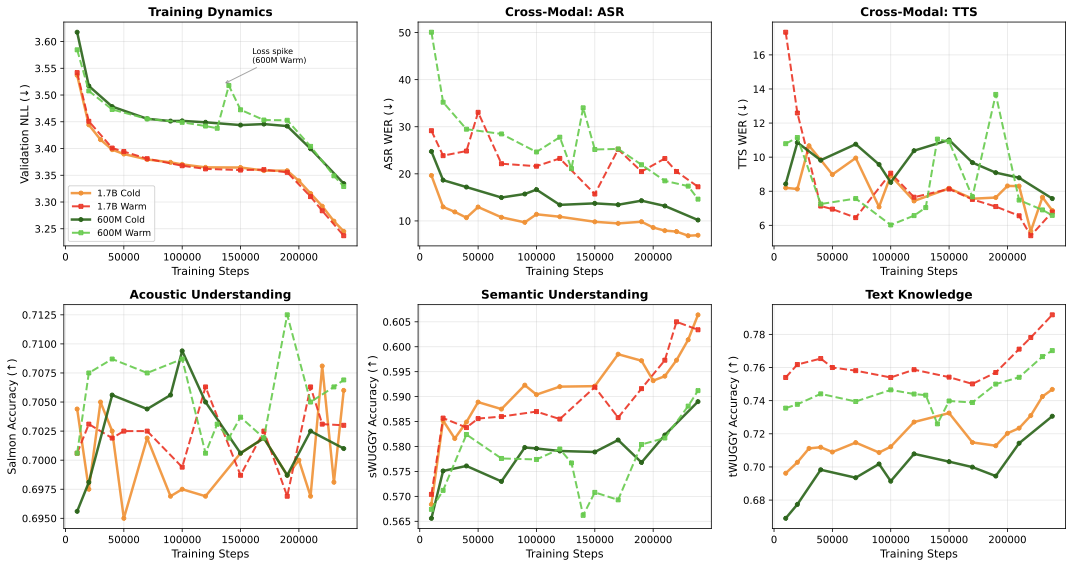
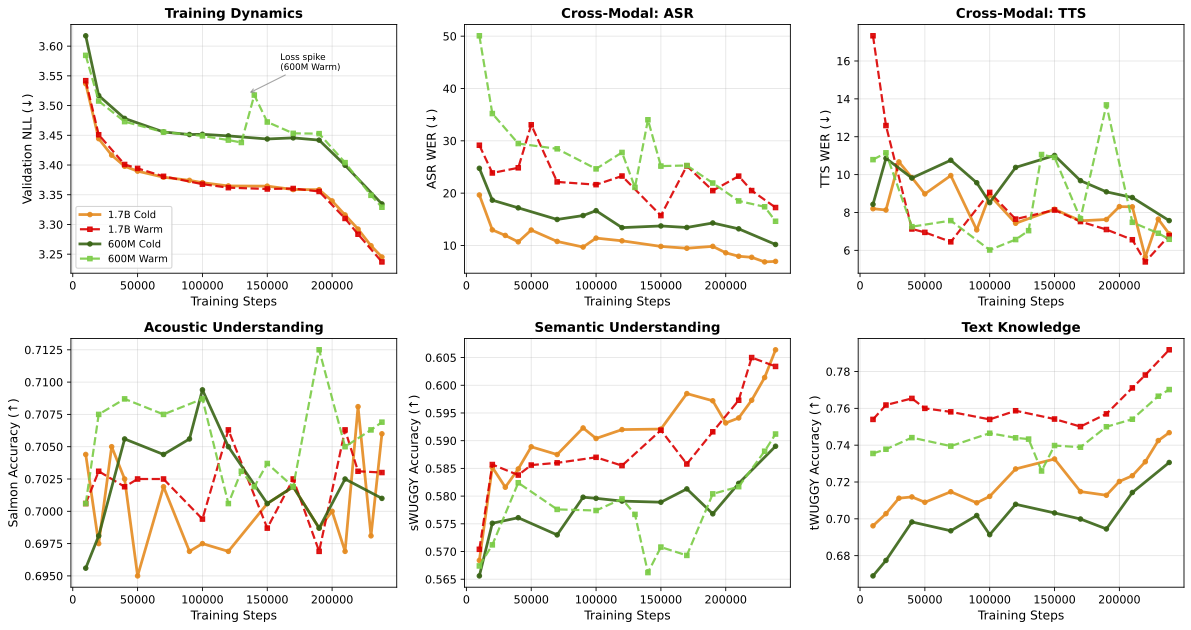
improve exp log (parametric fit) and main page link

diff --git a/experiment_log.html b/experiment_log.html
@@ -111,6 +111,7 @@
                 <li><a href="#isoflop-setup">Setup</a></li>
                 <li><a href="#isoflop-results">Results</a></li>
                 <li><a href="#isoflop-findings">Findings</a></li>
+                <li><a href="#isoflop-parametric">Parametric Loss Prediction</a></li>
               </ul>
             </li>
             <li>
@@ -441,6 +442,8 @@ def str_to_audio(audio_str: str, mimi_model: MimiModel, device: str) -> np.ndarr
             </li>
           </ul>
 
+          <strong>Experiment Script:</strong> <a href="https://github.com/potsawee/marin/blob/audio-release-pr/experiments/audio/exp1699_marin_yodas2.py">exp1699_marin_yodas2.py</a>
+
           <p>
             <strong>Link:</strong> 
             <a href="https://wandb.ai/marin-community/marin/runs/exp1699_marin_yodas2-b5edae/">📈 WandB Log</a> 
@@ -582,6 +585,8 @@ def str_to_audio(audio_str: str, mimi_model: MimiModel, device: str) -> np.ndarr
               <br><small><a href="https://wandb.ai/potsawee/marin/groups/DataMix-150M/workspace">📈 WandB Log</a></small>
             </li>
           </ul>
+
+          <strong>Experiment Script:</strong> <a href="https://github.com/potsawee/marin/blob/audio-release-pr/experiments/audio/exp1699_marin_yodas2_anneal.py">exp1699_marin_yodas2_anneal.py</a>
 
           <h3 id="annealing-results">Results</h3>
           <div class="table-container">
@@ -733,6 +738,7 @@ def str_to_audio(audio_str: str, mimi_model: MimiModel, device: str) -> np.ndarr
             <li><strong>Speech data:</strong> Yodas (English)</li>
             <li><strong>Ratios tested:</strong> 0%, 2.5%, 5%, 7.5%, 10%, 20%, 30%, 40%, 50%, 60%, 70%, 80%, 90%</li>
           </ul>
+          <strong>Experiment Script:</strong> <a href="https://github.com/potsawee/marin/blob/audio-release-pr/experiments/audio/exp1699_nemotron_sweep.py">exp1699_nemotron_sweep.py</a>
           <p>
             <strong>Link:</strong> <a href="https://wandb.ai/potsawee/marin/groups/Nemotron-Sweep-150M/workspace">📈 WandB Log</a>
           </p>
@@ -793,6 +799,7 @@ def str_to_audio(audio_str: str, mimi_model: MimiModel, device: str) -> np.ndarr
             <li><strong>S+A (Semantic+Acoustic):</strong> Up to 8 Mimi codebooks — audio-only sequences</li>
             <li><strong>S+A+T (Semantic+Acoustic+Text):</strong> 8 codebooks with text transcripts interleaved at the utterance level</li>
           </ul>
+          <strong>Experiment Script:</strong> <a href="https://github.com/potsawee/marin/blob/audio-release-pr/experiments/audio/exp1699_ablate_tokens.py">exp1699_ablate_tokens.py</a>
 
           <h3 id="token-comp-results">Results</h3>
           <div class="table-container">
@@ -883,10 +890,10 @@ def str_to_audio(audio_str: str, mimi_model: MimiModel, device: str) -> np.ndarr
           <h3 id="isoflop-goal">Goal & Motivation</h3>
           <p>
             Scaling laws for text LLMs are well-studied (Kaplan et al., Chinchilla, Llama3, DeepSeek), 
-            yet no such analysis exists for discrete audio models. 
-            Since audio tokens are far more granular (~100 tokens/sec with 8-codebook Mimi) 
-            compared to text (~3–4 tokens/sec), the optimal allocation between model size and training data may differ significantly.
-            We conduct the first scaling law study for discrete audio models to answer:
+            yet no such analysis exists for discrete audio models (e.g., codec-based TTS models or any transformer models trained on audio tokens). 
+            Since audio tokens are typically more granular (~100 tokens/sec with 8-codebook Mimi) 
+            compared to text (~3–4 tokens/sec) at a normal speaking rate, the optimal allocation between model size and training data may differ significantly.
+            This work conducts the first scaling law study for discrete audio models to answer:
           </p>
           <ul>
             <li>How should we allocate compute between model size (N) and training data (D)?</li>
@@ -900,15 +907,15 @@ def str_to_audio(audio_str: str, mimi_model: MimiModel, device: str) -> np.ndarr
             spanning two orders of magnitude from 3×10<sup>18</sup> to 3×10<sup>20</sup> FLOPs.
             For each compute budget C, we train models of varying sizes (77M to 4.2B parameters), 
             adjusting the number of training tokens D to satisfy C ≈ 6ND.
-            At each budget, we identify the configuration achieving the lowest validation loss, yielding optimal pairs (N*, D*).
+            At each budget, we identify the configuration achieving the lowest validation loss, yielding optimal pairs (N*, D*). We follow the setup of the IsoFLOP study in <a href="https://arxiv.org/abs/2510.24626">Relative Scaling Laws for LLMs</a> by adapting this <a href="https://github.com/marin-community/marin/blob/main/experiments/isoflop_sweep.py">script</a>.
           </p>
           <ul>
             <li><strong>Models trained:</strong> 64 configurations total</li>
             <li><strong>Compute range:</strong> 3×10<sup>18</sup> to 3×10<sup>20</sup> FLOPs</li>
             <li><strong>Model sizes:</strong> 77M to 4.2B parameters</li>
             <li><strong>Data:</strong> 5% Nemotron + 95% Yodas/Emilia (as determined previously)</li>
-            <li><strong>Config:</strong> <a href="https://github.com/marin-community/marin/blob/main/experiments/isoflop_sweep.py">isoflop_sweep.py</a></li>
           </ul>
+          <strong>Experiment Script:</strong> <a href="https://github.com/potsawee/marin/blob/audio-release-pr/experiments/audio/isoflop_audio_sweep.py">isoflop_sweep.py</a>
           <p>
             <strong>Link:</strong> <a href="https://wandb.ai/potsawee/marin/groups/IsoFlop/workspace">📈 WandB Log</a>
           </p>
@@ -969,17 +976,84 @@ def str_to_audio(audio_str: str, mimi_model: MimiModel, device: str) -> np.ndarr
             </li>
           </ol>
           
-          <details id="isoflop-parametric" style="margin-top: 1em;">
-            <summary style="cursor: pointer; font-weight: bold;">Show alternative parametric fit approach</summary>
-            <p style="margin-top: 0.5em;">
-              An alternative approach fits a parametric equation L = E + A/N<sup>α</sup> + B/D<sup>β</sup> on all data points 
-              and derives exponents as N* ∝ C<sup>β/(α+β)</sup> and D* ∝ C<sup>α/(α+β)</sup>. This yields similar findings:
-            </p>
-            <figure style="text-align: center; margin: 1em 0;">
-              <img src="./static/images/isoflop_parametric_fit_comparison.png" alt="Parametric fit comparison" style="max-width: 80%;">
-              <figcaption style="font-size: 0.85em; color: #666; margin-top: 0.5em;">Comparison of IsoFLOP approach vs parametric fit approach.</figcaption>
-            </figure>
-          </details>
+          <h3 id="isoflop-parametric">Parametric Loss Prediction</h3>
+          <p>
+            Beyond identifying compute-optimal allocations, we also want to <em>predict</em> the final validation loss 
+            for models trained at larger compute budgets — including over-trained configurations where the model is 
+            trained on more data than its compute-optimal amount, for example, our SODA-LongRun experiments in a subsequent section.
+            To preict final validation loss, we fit the parametric equation from 
+            <a href="https://arxiv.org/abs/2203.15556">Chinchilla</a>:
+          </p>
+          <div style="background-color: #f5f5f5; padding: 1em; font-size: 1.1em; border-radius: 4px; text-align: center; font-family: 'Noto Sans', sans-serif;">
+            L(N, D) = E + A / N<sup>α</sup> + B / D<sup>β</sup>
+          </div>
+          <p style="margin-top: 0.75em;">
+            where <em>N</em> is the model size (parameters), <em>D</em> is the number of training tokens, 
+            and <em>E</em> represents the irreducible loss.
+            We fit this equation on all <strong>64 data points</strong> from our IsoFLOP sweep 
+            (not just the compute-optimal points), obtaining:
+          </p>
+          <div style="background-color: #f5f5f5; padding: 1em; font-size: 1.1em; border-radius: 4px; text-align: center; font-family: 'Noto Sans', sans-serif;">
+            L = 3.169 + 215886 / N<sup>0.684</sup> + 4750 / D<sup>0.439</sup>
+            &nbsp;&nbsp;&nbsp; (R<sup>2</sup> = 0.983)
+          </div>
+
+          <p style="margin-top: 1em;">
+            <strong>Note on derived scaling exponents.</strong>
+            This parametric fit approach also provides an alternative derivation of scaling exponents.
+            Using C = 6ND, the compute-optimal model size and data can be derived as 
+            N* ∝ C<sup>β/(α+β)</sup> and D* ∝ C<sup>α/(α+β)</sup>.
+            Using our fitted α = 0.684 and β = 0.439, we obtain:
+          </p>
+          <div style="background-color: #f5f5f5; padding: 1em; font-size: 1.05em; border-radius: 4px; font-family: 'Noto Sans', sans-serif;">
+            <table style="margin: 0 auto; border-collapse: collapse; font-size: 1em;">
+              <tr>
+                <td style="padding: 0.3em 1em;"><strong>N*</strong> ∝ C<sup>0.391</sup></td>
+                <td style="padding: 0.3em 1em; color: #888;">(vs. C<sup>0.367</sup> from IsoFLOP fit)</td>
+              </tr>
+              <tr>
+                <td style="padding: 0.3em 1em;"><strong>D*</strong> ∝ C<sup>0.609</sup></td>
+                <td style="padding: 0.3em 1em; color: #888;">(vs. C<sup>0.579</sup> from IsoFLOP fit)</td>
+              </tr>
+            </table>
+          </div>
+          <p style="margin-top: 0.75em;">
+            These derived exponents are reasonably close to the empirically fitted values from the IsoFLOP analysis, 
+            with both approaches showing D*/N* ≈ 1.57.
+            This asymmetry (data scaling faster than model size) is consistent with the lower information density 
+            of discrete audio tokens compared to text.
+          </p>
+
+          <p style="margin-top: 1em;">
+            <strong>Loss predictions.</strong>
+            The figure below shows loss predictions based on our parametric fit at different overtraining ratios 
+            <em>K</em> = D/D*, where <em>K</em> = 1 is compute-optimal 
+            and higher <em>K</em> indicates more overtraining (smaller model trained on more data).
+            Grey points show IsoFLOP sweep data. 
+            Colored curves show predicted loss at <em>K</em> = 1 (optimal), 5, 20, and 100.
+            Colored circles show the actual SODA models (135M, 600M, 1.7B, 4B).
+          </p>
+          <figure style="text-align: center; margin: 1.5em 0;">
+            <img src="./static/images/isoflop_parametric_fit_comparison.png" alt="Loss vs compute at different overtraining ratios using parametric fit" style="max-width: 66%;">
+            <figcaption style="font-size: 0.85em; color: #666; margin-top: 0.5em;">
+              Loss vs. compute at different overtraining ratios <em>K</em> using the fitted parametric equation.
+              Grey: IsoFLOP sweep data. Colored curves: predicted loss at different <em>K</em>.
+              Colored circles: actual SODA models, which achieve <em>lower</em> losses than predicted.
+            </figcaption>
+          </figure>
+          <p>
+            Interestingly, our longer-trained SODA models (135M–4B) in the subsequent experiment achieve losses <em>lower</em> than predicted by the parametric equation — 
+            even lower than the optimal (<em>K</em> = 1) extrapolated prediction for the 1.7B and 4B models.
+            This systematic under-prediction when extrapolating from the IsoFLOP regime 
+            (3×10<sup>18</sup>–3×10<sup>20</sup> FLOPs) to higher compute 
+            (6×10<sup>20</sup>–1.3×10<sup>22</sup> FLOPs) could be because 
+            scaling law extrapolations diverge in the far tails of the compute distribution.
+            The offset suggests that either scaling exponents evolve favorably at larger scales, 
+            or the irreducible loss <em>E</em> is lower than estimated from the smaller-scale regime.
+            Despite these prediction challenges, downstream task performance scales reliably with validation loss 
+            (see <a href="#nll-correlation">Correlation section</a>), 
+            making validation loss a useful proxy even when absolute loss predictions are imperfect.
+          </p>
 
           <br>
 
@@ -1205,6 +1279,9 @@ def str_to_audio(audio_str: str, mimi_model: MimiModel, device: str) -> np.ndarr
           <p style="margin-top: 0.75em;">
             Training the 4B model on 500B tokens reaches 1.3×10<sup>22</sup> FLOPs (~1 week on v5p-256 TPU).
           </p>
+
+          <strong>Experiment Script:</strong> <a href="https://github.com/potsawee/marin/blob/audio-release-pr/experiments/audio/exp1699_marin_audio_all.py">exp1699_marin_audio_all.py</a>
+
           <p>
             <strong>Link:</strong> <a href="https://wandb.ai/potsawee/marin/groups/Marin-Audio-Longrun/workspace">📈 WandB Log</a>
           </p>
@@ -1429,6 +1506,9 @@ def str_to_audio(audio_str: str, mimi_model: MimiModel, device: str) -> np.ndarr
             <li><strong>Scales:</strong> 600M and 1.7B parameters</li>
             <li><strong>Budget:</strong> 500B tokens each (~4 epochs)</li>
           </ul>
+
+          <strong>Experiment Script:</strong> <a href="https://github.com/potsawee/marin/blob/audio-release-pr/experiments/audio/exp1699_marin_audio_ws.py">exp1699_marin_audio_ws.py</a>
+
           <p>
             <strong>Link:</strong> <a href="https://wandb.ai/potsawee/marin/groups/Marin-Audio-Longrun/workspace">📈 WandB Log</a> (same group as SODA-LongRun)
           </p>

diff --git a/index.html b/index.html
@@ -268,6 +268,9 @@
         <div class="content has-text-centered">
           <img src="./static/images/nll_correlation.png" alt="Predicting emergence behavior of skills" style="max-width: 100%; height: auto;">
         </div>
+        <p style="font-size: 0.9em; color: #666; font-style: italic; margin-top: 0.5rem;">
+          Note: The above shows that task performance is predictable <em>given</em> validation loss. We also explore predicting this final validation loss from model size and training tokens via a parametric fit — see <a href="experiment_log.html#isoflop-parametric">Parametric Loss Prediction</a> in the Experiment Log.
+        </p>
       </div>
     </div>
     <!--/ Scaling Laws. -->
